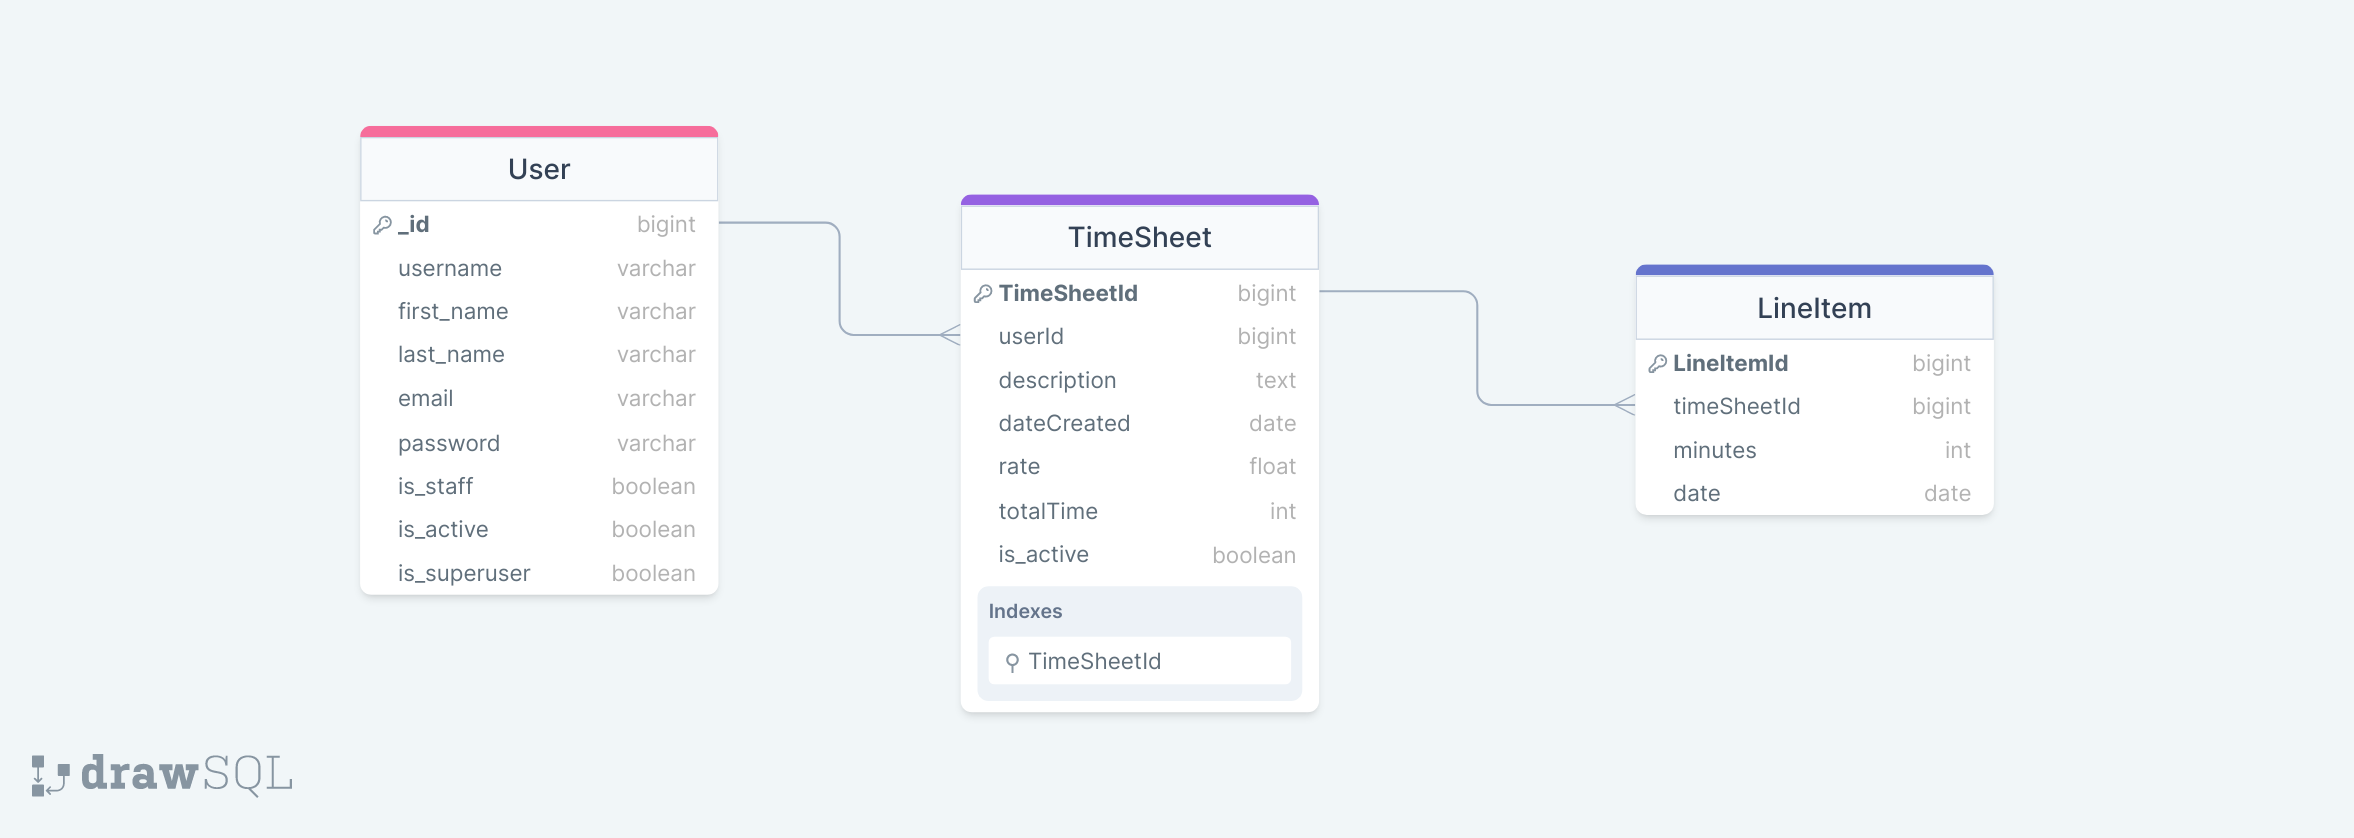
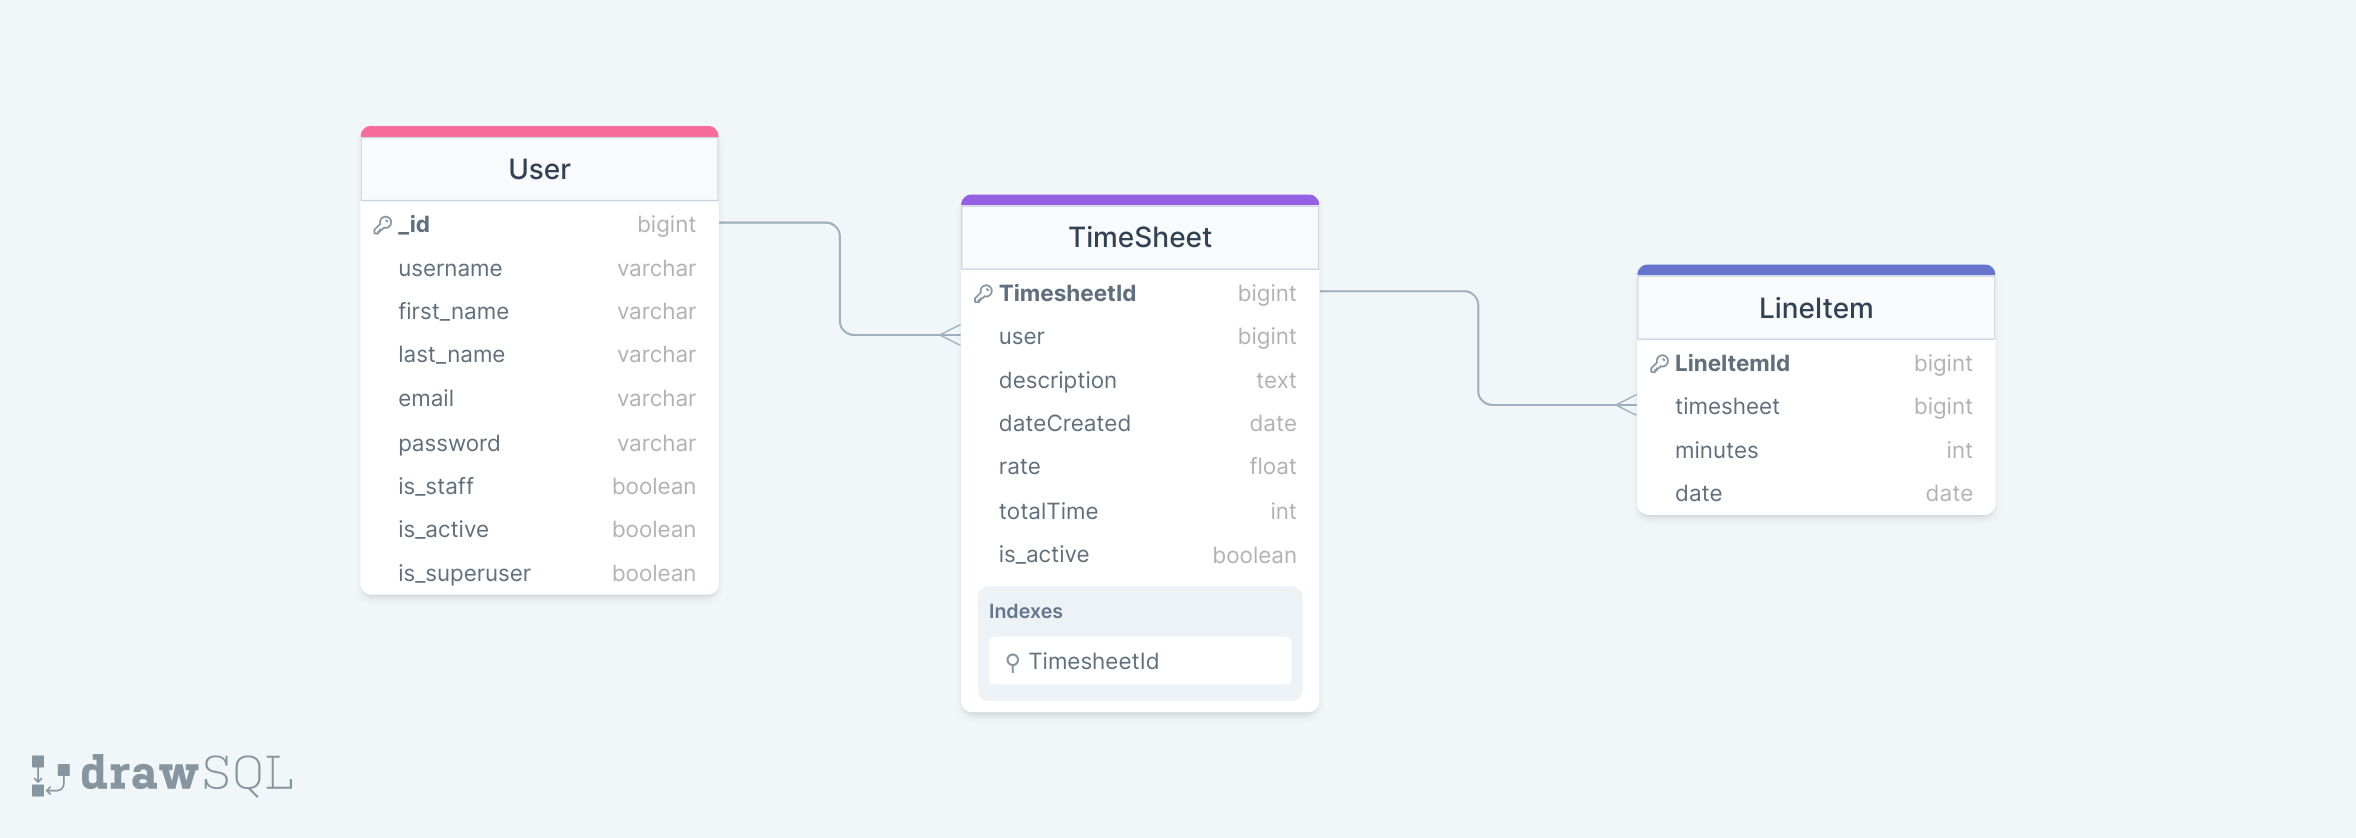
fixing data model, adding signals for total time and adding timeSheetData

diff --git a/frontend/src/screens/TimesheetsScreen.js b/frontend/src/screens/TimesheetsScreen.js
@@ -1,6 +1,7 @@
 import React, { useEffect, useState } from "react";
 import { Link } from "react-router-dom";
-import { Row, Col, ListGroup } from "react-bootstrap";
+import { Row, Col, Table, Button, Container } from "react-bootstrap";
+import { LinkContainer } from "react-router-bootstrap";
 import axios from "axios";
 import Message from "../components/Message";
 import Loader from "../components/Loader";
@@ -30,37 +31,56 @@ function TimesheetsScreen() {
         },
         [userId, userInfo.token]
     );
-    return !userInfo ? (
-        <Row className="py-3">
-            <Col>
-                Please <Link to={"/login?redirect=/timesheets/"}>Log in</Link> to see your timesheets
-            </Col>
-        </Row>
-    ) : (
-        <Row>
-            <Col md={8}>
-                <h1>My Timesheets</h1>
-                {loading ? (
-                    <Loader />
-                ) : timesheets.length === 0 ? (
-                    <Message variant="info">You dont have any timesheets yet</Message>
-                ) : (
-                    <ListGroup variant="flush">
-                        {timesheets.map((item) => (
-                            <ListGroup.Item key={item.timesheetId}>
-                                <Row>
-                                    <Col md={1}>
-                                        <Link to={`/timesheets/${item.timesheetId}`}>{item.timesheetId}</Link>
-                                    </Col>
-                                    <Col md={2}>{item.dateCreated}</Col>
-                                    <Col md={8}>{item.description}</Col>
-                                </Row>
-                            </ListGroup.Item>
-                        ))}
-                    </ListGroup>
-                )}
-            </Col>
-        </Row>
+    return (
+        <Container>
+            {!userInfo ? (
+                <Row className="py-3">
+                    <Col>
+                        Please <Link to={"/login?redirect=/timesheets/"}>Log in</Link> to see your timesheets
+                    </Col>
+                </Row>
+            ) : (
+                <Row>
+                    <Col md={9}>
+                        <h1>My Timesheets</h1>
+                        {loading ? (
+                            <Loader />
+                        ) : timesheets.length === 0 ? (
+                            <Message variant="info">You dont have any timesheets yet</Message>
+                        ) : (
+                            <Table striped responsive className="table-sm">
+                                <thead>
+                                    <tr>
+                                        <th>ID</th>
+                                        <th>Create At</th>
+                                        <th>Rate</th>
+                                        <th>Total Time</th>
+                                        <th>Description</th>
+                                        <th style={{ width: "0.75rem" }}></th>
+                                    </tr>
+                                </thead>
+                                <tbody>
+                                    {timesheets.map((item) => (
+                                        <tr key={item.timesheetId}>
+                                            <td>{item.timesheetId}</td>
+                                            <td>{item.dateCreated}</td>
+                                            <td>${item.rate}</td>
+                                            <td>{item.totalTime}</td>
+                                            <td>{item.description}</td>
+                                            <td>
+                                                <LinkContainer to={`/timesheets/${item.timesheetId}`}>
+                                                    <Button className="btn-sm">Details</Button>
+                                                </LinkContainer>
+                                            </td>
+                                        </tr>
+                                    ))}
+                                </tbody>
+                            </Table>
+                        )}
+                    </Col>
+                </Row>
+            )}
+        </Container>
     );
 }
 

diff --git a/frontend/src/components/TimeSheetData.js b/frontend/src/components/TimeSheetData.js
@@ -1,0 +1,49 @@
+import React, { useState, useEffect } from "react";
+import { Form, InputGroup } from "react-bootstrap";
+
+function TimeSheetData({ data }) {
+    const [description, setDescription] = useState(() => data.description);
+    const [rate, setRate] = useState(() => Number(data.rate));
+    const [totalTime, setTotalTime] = useState(() => data.totalTime);
+    useEffect(() => {
+        setDescription(data.description);
+        setRate(Number(data.rate));
+        setTotalTime(data.totalTime);
+    }, [data]);
+    return (
+        <Form>
+            <Form.Group className="mb-3" controlId="textArea">
+                <Form.Label>Description:</Form.Label>
+                <Form.Control
+                    as="textarea"
+                    rows={2}
+                    value={description}
+                    onChange={(e) => setDescription(e.target.value)}
+                />
+            </Form.Group>
+            <Form.Label>Rate:</Form.Label>
+            <InputGroup className="mb-3">
+                <InputGroup.Text>$</InputGroup.Text>
+                <Form.Control
+                    aria-label="Rate (to the nearest dollar)"
+                    type="number"
+                    value={rate}
+                    onChange={(e) => setRate(e.target.value)}
+                    min={0}
+                    max={10000}
+                />
+                <InputGroup.Text>.00</InputGroup.Text>
+            </InputGroup>
+            <Form.Group className="mb-3" controlId="totalHours">
+                <Form.Label>Total Hours:</Form.Label>
+                <Form.Control type="number" value={totalTime} readOnly />
+            </Form.Group>
+            <Form.Group className="mb-3" controlId="totalHours">
+                <Form.Label>Total Cost:</Form.Label>
+                <Form.Control type="number" value={totalTime * rate} readOnly />
+            </Form.Group>
+        </Form>
+    );
+}
+
+export default TimeSheetData;

diff --git a/frontend/src/components/Table.js b/frontend/src/components/Table.js
@@ -1,6 +1,5 @@
 import React, { useState, useEffect } from "react";
 import { useReactTable, getCoreRowModel, flexRender, createColumnHelper } from "@tanstack/react-table";
-//import { defaultData } from "../tableData/defaultData";
 import TableCell from "../components/TableCell";
 import TableEditCell from "../components/TableEditCell";
 
@@ -35,8 +34,11 @@ function Table({ tabelData }) {
 
     const [data, setData] = useState(() => tabelData);
    
-    const [originalData, setOriginalData] = useState(() => []);
+    const [originalData, setOriginalData] = useState(() => tabelData);
     const [editedRows, setEditedRows] = useState({});
+    useEffect(() => {
+        setData(tabelData);
+    }, [tabelData]);
     const table = useReactTable({
         data,
         columns,
@@ -66,12 +68,9 @@ function Table({ tabelData }) {
             },
         },
     });
-     useEffect(() => {
-         setData(tabelData);
-         table.data = data;
-     }, [tabelData, data, table]);
+     
     return (
-        <table>
+        <table className="timesheet">
             <thead>
                 {table.getHeaderGroups().map((headerGroup) => (
                     <tr key={headerGroup.id}>

diff --git a/frontend/src/screens/TimesheetScreen.js b/frontend/src/screens/TimesheetScreen.js
@@ -1,6 +1,6 @@
 import React, { useState, useEffect } from "react";
 import Table from "../components/Table";
-import SheetDescription from "../components/SheetDescription";
+import TimeSheetData from "../components/TimeSheetData";
 import Loader from '../components/Loader'
 import { Container, Row, Col } from "react-bootstrap";
 import { useParams } from "react-router-dom";
@@ -39,7 +39,7 @@ function TimesheetScreen() {
             ) : (
                 <Row>
                     <Col sm={12} md={6} lg={4} xl={3}>
-                        <SheetDescription title="Timesheet Description:" content={data.description} />
+                        <TimeSheetData data={data} />
                     </Col>
                     <Col>
                         <Table tabelData={data.lineItems} />

diff --git a/frontend/src/index.css b/frontend/src/index.css
@@ -12,7 +12,7 @@ code {
     monospace;
 }
 
-table {
+table.timesheet {
   font-family: sans-serif;
   border-collapse: collapse;
   border: 1px solid #ccc;

diff --git a/backend/base/models.py b/backend/base/models.py
@@ -4,9 +4,9 @@ from django.contrib.auth.models import User
 # Create your models here.
 class TimeSheet(models.Model):
     timesheetId = models.AutoField(primary_key=True, editable=False)
-    userId = models.ForeignKey(User, on_delete=models.CASCADE, null=False)
+    user = models.ForeignKey(User, on_delete=models.CASCADE, null=False)
     description = models.TextField(max_length=1000, null=True, blank=True)
-    rate = models.DecimalField(max_digits=8, decimal_places=2, default=0, null=True, blank=True)
+    rate = models.IntegerField(null=True, blank=True, default=0)
     totalTime = models.IntegerField(null=True, blank=True, default=0)
     dateCreated = models.DateTimeField(auto_now_add=True)
     is_active = models.BooleanField()
@@ -16,8 +16,8 @@ class TimeSheet(models.Model):
 
 class LineItem(models.Model):
     lineItemId = models.AutoField(primary_key=True, editable=False)
-    timesheetId = models.ForeignKey(TimeSheet, on_delete=models.CASCADE, null=False)
+    timesheet = models.ForeignKey(TimeSheet, on_delete=models.CASCADE, null=False)
     minutes = models.IntegerField(null=True, blank=True, default=0)
     date = models.DateField(auto_now=False, auto_now_add=False)
     def __str__(self) :
-        return f'{self.timesheetId} - {self.lineItemId}'
+        return f'{self.timesheet} - {self.lineItemId}'

diff --git a/backend/base/signals.py b/backend/base/signals.py
@@ -1,10 +1,24 @@
-from django.db.models.signals import pre_save
+from django.db.models.signals import pre_save, post_save, post_delete
 from django.contrib.auth.models import User
+from . import models
+
 
 def updateUser(sender, instance, **kwargs):
     user = instance
-    if user.email != '':
+    if user.email != "":
         user.username = user.email
 
+
+def updateTimesheet(sender, instance, **kwargs):
+    timesheet = instance.timesheet
+    lineItems = timesheet.lineitem_set
+    totalMinutes = 0
+    for item in timesheet.lineitem_set.all():
+        totalMinutes += item.minutes
+    timesheet.totalTime = totalMinutes
+    timesheet.save()
+
+
 pre_save.connect(updateUser, sender=User)
-    
+post_save.connect(updateTimesheet, sender=models.LineItem)
+post_delete.connect(updateTimesheet, sender=models.LineItem)

diff --git a/backend/base/migrations/0006_rename_timesheetid_lineitem_timesheet_and_more.py b/backend/base/migrations/0006_rename_timesheetid_lineitem_timesheet_and_more.py
@@ -1,0 +1,23 @@
+# Generated by Django 4.2.5 on 2023-09-08 17:47
+
+from django.db import migrations
+
+
+class Migration(migrations.Migration):
+
+    dependencies = [
+        ('base', '0005_alter_timesheet_rate'),
+    ]
+
+    operations = [
+        migrations.RenameField(
+            model_name='lineitem',
+            old_name='timesheetId',
+            new_name='timesheet',
+        ),
+        migrations.RenameField(
+            model_name='timesheet',
+            old_name='userId',
+            new_name='user',
+        ),
+    ]

diff --git a/backend/base/migrations/0005_alter_timesheet_rate.py b/backend/base/migrations/0005_alter_timesheet_rate.py
@@ -1,0 +1,18 @@
+# Generated by Django 4.2.5 on 2023-09-08 17:38
+
+from django.db import migrations, models
+
+
+class Migration(migrations.Migration):
+
+    dependencies = [
+        ('base', '0004_rename_timesheetid_lineitem_timesheetid_and_more'),
+    ]
+
+    operations = [
+        migrations.AlterField(
+            model_name='timesheet',
+            name='rate',
+            field=models.IntegerField(blank=True, default=0, null=True),
+        ),
+    ]

diff --git a/backend/base/views.py b/backend/base/views.py
@@ -63,7 +63,7 @@ def updateUserProfile(request):
 @api_view(["GET"])
 @permission_classes([IsAuthenticated])
 def timesheets(request, userId):
-    timesheets = TimeSheet.objects.filter(userId = userId)
+    timesheets = TimeSheet.objects.filter(user = userId)
     serializer = TimeSheetSerializer(timesheets, many=True)
     return Response(serializer.data)
 
